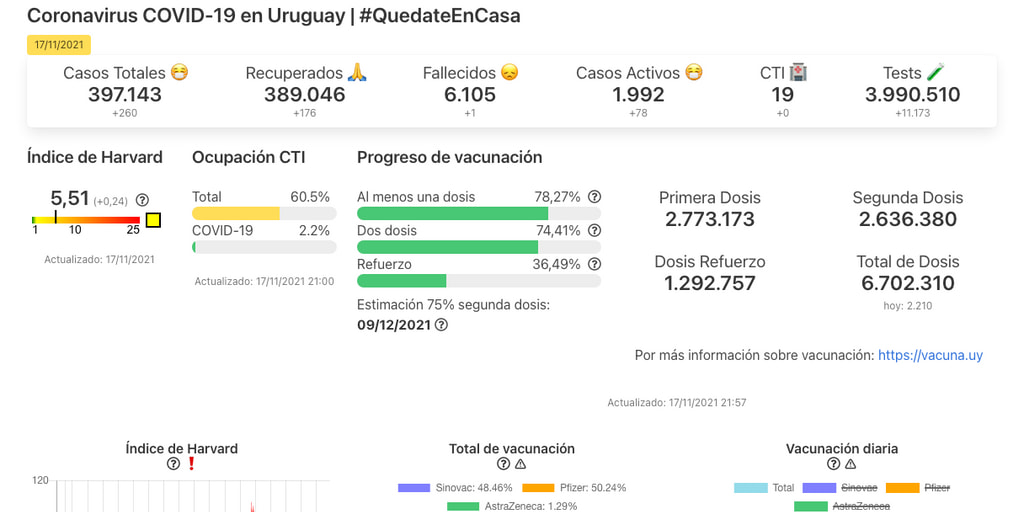
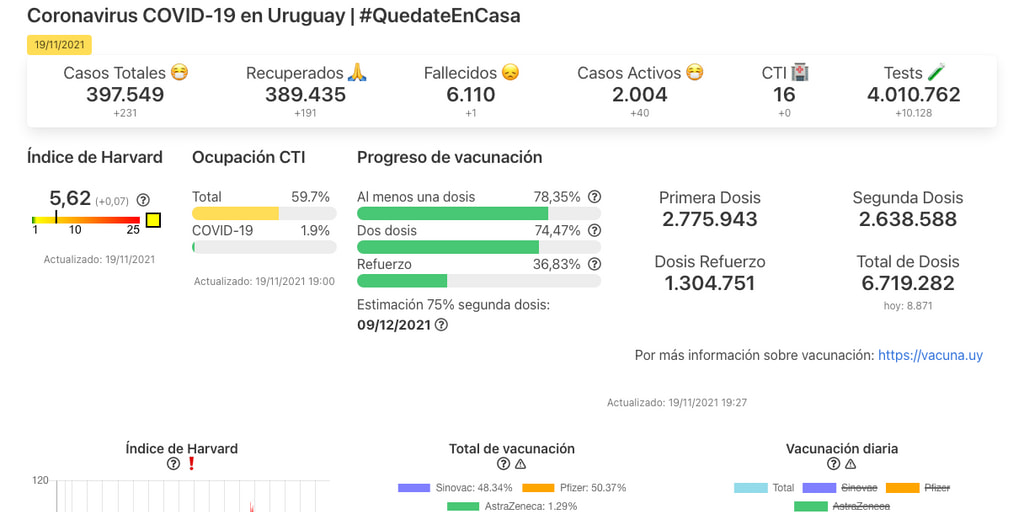
updated uruguay

diff --git a/test/test-data.js b/test/test-data.js
@@ -296,6 +296,10 @@ describe('Test data', function () {
                 totalDeaths -= 1;
             }
 
+            if (date.getTime() == new Date("2021-11-19" + DATE_DEFAULT_TIME).getTime()) {
+                totalDeaths -= 1;
+            }
+
             deathHistory.push({ date: date, deaths: totalDeaths });
 
             // a death was removed on 2021-08-23.
